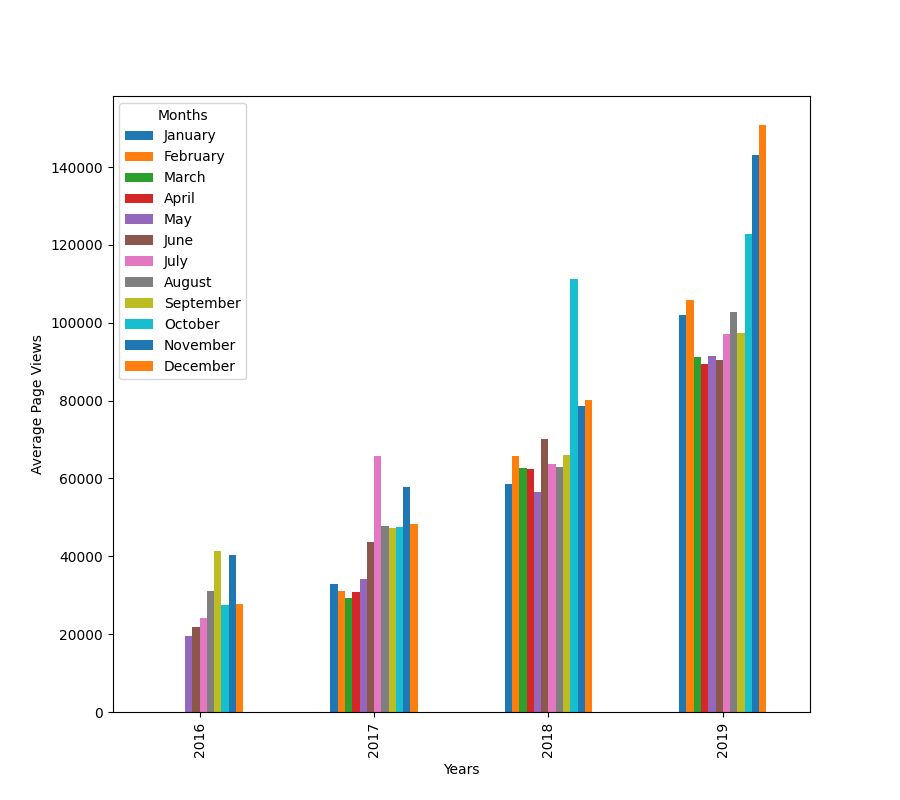
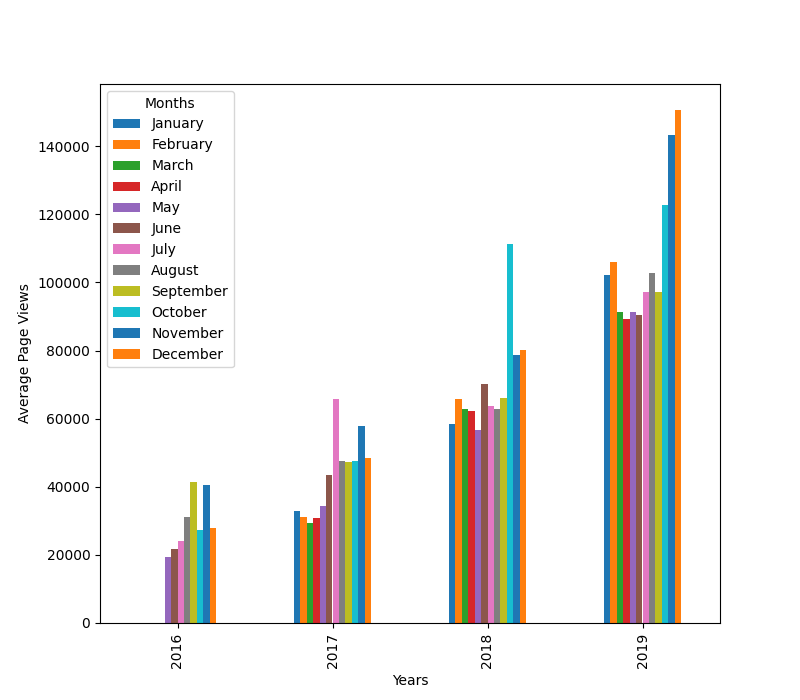
close #4

diff --git a/page-view-time-series-visualizer/main.py b/page-view-time-series-visualizer/main.py
@@ -18,7 +18,7 @@ df = df.drop(df[
 
 def draw_line_plot():
     # Draw line plot
-    fig, ax = plt.subplots(figsize=(20, 5))
+    fig, ax = plt.subplots(figsize=(12, 3))
 
     ax.set_title('Daily freeCodeCamp Forum Page Views 5/2016-12/2019')
     ax.set_xlabel('Date')
@@ -40,7 +40,7 @@ def draw_bar_plot():
     df_bar = df_bar.pivot('year', 'month', 'value')
 
     # Draw bar plot
-    fig, ax = plt.subplots(figsize=(9, 8))
+    fig, ax = plt.subplots(figsize=(8, 7))
     df_bar.plot.bar(ax=ax)
     ax.set_xlabel('Years')
     ax.set_ylabel('Average Page Views')
@@ -61,7 +61,7 @@ def draw_box_plot():
     df_box['month'] = [d.strftime('%b') for d in df_box.date]
 
     # Draw box plots (using Seaborn)
-    fig, axs = plt.subplots(1, 2, figsize=(30, 10))
+    fig, axs = plt.subplots(1, 2, figsize=(22, 6))
     ax1, ax2 = axs
 
     sns.boxplot(data=df_box, x='year', y='value', ax=ax1)

diff --git a/page-view-time-series-visualizer/README.md b/page-view-time-series-visualizer/README.md
@@ -8,20 +8,303 @@ _Please note:_ to test the code locally I copied the data in `fcc-forum-pageview
 
 - [Assignment](https://www.freecodecamp.org/learn/data-analysis-with-python/data-analysis-with-python-projects/page-view-time-series-visualizer)
 
-- [REPL](https://replit.com/@borntofrappe/boilerplate-page-view-time-series-visualizer)
+- [Solution](https://replit.com/@borntofrappe/boilerplate-page-view-time-series-visualizer)
 
-## Assignment
+## Solution
 
-Use the data to complete the following tasks:
+Begin by reading and the data from the `.csv` file:
 
-- Use Pandas to import the data from "fcc-forum-pageviews.csv". Set the index to the "date" column.
+- import the data from "fcc-forum-pageviews.csv"
 
-- Clean the data by filtering out days when the page views were in the top 2.5% of the dataset or bottom 2.5% of the dataset.
+- set the index to the "date" column.
 
-- Create a `draw_line_plot` function that uses Matplotlib to draw a line chart similar to "examples/Figure_1.png". The title should be "Daily freeCodeCamp Forum Page Views 5/2016-12/2019". The label on the x axis should be "Date" and the label on the y axis should be "Page Views".
+- parse dates
 
-- Create a `draw_bar_plot` function that draws a bar chart similar to "examples/Figure_2.png". It should show average daily page views for each month grouped by year. The legend should show month labels and have a title of "Months". On the chart, the label on the x axis should be "Years" and the label on the y axis should be "Average Page Views".
+To achieve the three features store the data in a dataframe with `pd.read_csv`. Specify the index column and the parsing of the dates with the appropriate keyword arguments.
 
-- Create a `draw_box_plot` function that uses Searborn to draw two adjacent box plots similar to "examples/Figure_3.png". These box plots should show how the values are distributed within a given year or month and how it compares over time. The title of the first chart should be "Year-wise Box Plot (Trend)" and the title of the second chart should be "Month-wise Box Plot (Seasonality)". Make sure the month labels on bottom start at "Jan" and the x and x axis are labeled correctly.
+```py
+df = pd.read_csv('fcc-forum-pageviews.csv', index_col='date', parse_dates=['date'])
+```
 
-For each chart, make sure to use a copy of the data frame.
+It would be possible to parse the dates considering the entire dataframe, and not just the date column, with a boolean.
+
+```py
+df = pd.read_csv('fcc-forum-pageviews.csv', index_col='date', parse_dates=True)
+```
+
+Regardless, attest the presence of the date type considering the index column.
+
+```py
+df.index
+'''
+DatetimeIndex(['2016-05-09', '2016-05-10', ...], dtype='datetime64[ns]', ...)
+'''
+```
+
+Following the specification for the project clean the data by filtering out days when the page views were in the top 2.5% or bottom 2.5%.
+
+The relevant function is here `quantile()`. Start by finding the rows exceeding the two thresholds.
+
+```py
+df[
+    (df['value'] > df['value'].quantile(0.975)) |
+    (df['value'] < df['value'].quantile(0.025))
+]
+```
+
+Drop the rows by index and from the original dataframe.
+
+```py
+df = df.drop(df[
+  #... quantile checks
+])
+```
+
+One quick way to confirm that the rows are dropped is considering the length of the dataframe, before and after the snippet.
+
+```py
+len(df) # 1304
+
+# drop
+
+len(df) # 1238
+```
+
+With the resulting dataframe create three visualizations.
+
+### Line plot
+
+The assignment asks to populate the `draw_line_plot` function to draw a line chart similar to [the example](https://replit.com/@borntofrappe/boilerplate-page-view-time-series-visualizer#examples/Figure_1.png). Page views are plotted on the y axis, while the x axis describes the entire range of the selected data.
+
+In terms of setup, repeated for other visualizations, matplotlib allows to plot data with a figure and ax.
+
+```py
+fig, ax = plt.subplots()
+
+# plot on the ax
+
+fig.savefig('visualization.png')
+```
+
+For the line plot, given the number of data points, have the figure considerably wider than taller.
+
+```py
+fig, ax = plt.subplots(figsize=(16, 4))
+```
+
+It would be enough to draw the line with `ax.plot(df)`, referencing the dataframe directly.
+
+```py
+ax.plot(df, 'm') # maroon line
+```
+
+Per the assignment, however, it is first necessary to set the title and labels.
+
+```py
+ax.set_title('Daily freeCodeCamp Forum Page Views 5/2016-12/2019')
+ax.set_xlabel('Date')
+ax.set_ylabel('Page Views')
+```
+
+### Bar plot
+
+The assignment asks to populate the `draw_bar_plot` function to draw a bar chart similar to [the example](https://replit.com/@borntofrappe/boilerplate-page-view-time-series-visualizer#examples/Figure_2.png). Page views are averaged by month and grouped by year.
+
+The first step is creating a copy of the dataframe, so that further modifications do not alter the original structure.
+
+```py
+df_bar = df.copy(True)
+```
+
+The chart needs to plot the average page views on a monthly basis, so modify the dataframe with the desired time range. Pandas offers the `.resample` method which creates a `DatetimeIndexResampler` with a given frequency, here months.
+
+```py
+df_bar.resample('M')
+```
+
+Based on the resampler retrieve a dataframe describing the averages chaining the `.mean` function.
+
+```py
+df_bar.resample('M').mean()
+"""
+                    value
+date
+2016-05-31   19432.400000
+2016-06-30   21875.105263
+2016-07-31   24109.678571
+2016-08-31   31049.193548
+2016-09-30   41476.866667
+2016-10-31   27398.322581
+"""
+```
+
+Notice the index which is no longer based on days, but on months.
+
+To draw the bars next to each other the relevant function doesn't come from matplotlib, but from pandas (even though it is likely there is a connection between the two APIs). The function is available as a method on the dataframe: `df.plot.bar`.
+
+Learning from the second example [in the documentation](<(https://pandas.pydata.org/docs/reference/api/pandas.DataFrame.plot.bar.html)>) the function requires a dataframe with a specific structure, one where the index describes the four years and the columns describe the months.
+
+```py
+"""
+month   1       2 ...
+2016    5      12 ...
+2017    7      21 ...
+...
+"""
+```
+
+To achieve the structure pandas offers the `.pivot` function. However, the dataframe needs to include the year and month for each observations.
+
+```py
+df_bar['year'] = df_bar.index.year
+df_bar['month'] = df_bar.index.month
+
+"""
+      value   year    month
+date      5   2016        1
+"""
+```
+
+With this setup use `pivot` to create the data structure with the years in the index and the months in the columns.
+
+```py
+df_bar = df_bar.pivot('year', 'month', 'value')
+```
+
+Finally, through the mentioned `.plot.bar` method, plot the data in adjacent bars.
+
+```py
+df_bar.plot.bar()
+```
+
+To draw the visual in the figure refer to the ax.
+
+```py
+fig, ax = plt.subplots(figsize=(7, 6))
+df_bar.plot.bar(ax=ax)
+```
+
+This completes the bar plot. Per the assignment, however, it is necessary to customize the axis labels.
+
+```py
+ax.set_xlabel('Years')
+ax.set_ylabel('Average Page Views')
+```
+
+For the legend `.legend()` creates the desired section in the top left corner, but displays integer values.
+
+```py
+ax.legend(title='Months')
+```
+
+One way to work around this is to specify the name of the months directly through the `labels` keyword argument.
+
+```py
+ax.legend(title='Months', labels=labels)
+```
+
+To create the labels the pandas library allows to rapidly create twelve dates in an arbitrary year and retrieve the month for each date.
+
+```py
+labels = pd.date_range(start='2020/01/01', periods=12, freq='M').month_name()
+```
+
+### Box plot
+
+The assignment asks to populate the `draw_box_plot` function to draw two plots similar to [the example](https://replit.com/@borntofrappe/boilerplate-page-view-time-series-visualizer#examples/Figure_3.png). Each box plot focuses on a different time range, years and months, to show the distribution and outliers of the page views variable.
+
+The function already includes instructions to prepare the data.
+
+```py
+df_box = df.copy()
+df_box.reset_index(inplace=True)
+df_box['year'] = [d.year for d in df_box.date]
+df_box['month'] = [d.strftime('%b') for d in df_box.date]
+```
+
+A few things worth noting, which might also lead to modifications in the preceding functions:
+
+- `df.copy()` doesn't include the boolean to create a deep copy
+
+  Checking [the documentation](https://pandas.pydata.org/docs/reference/api/pandas.DataFrame.copy.html) it actually seems pandas sets the boolean to `True` by default.
+
+- `df_box.reset_index(inplace=True)` modifies the dataframe to have the `date` and `value` in their respective column
+
+  ```py
+  df_box = df.copy()
+  '''
+              value
+  date
+  2016-05-19   19736
+  2016-05-26   18060
+  '''
+
+  df_box.reset_index(inplace=True)
+  df
+  '''
+            date   value
+  0    2016-05-19   19736
+  1    2016-05-26   18060
+  '''
+  ```
+
+- the remaining two lines populate two columns with the year and month value
+
+  The operation is achieved with list expressions creating a list of years and month names. Considering the year as an example the following:
+
+  ```py
+  years = [d.year for d in df_box.date]
+  ```
+
+  Is equivalent to the following sequence:
+
+  ```py
+  years = []
+  for d in df_box['date']:
+    years.append(d.year)
+  ```
+
+  A similar logic creates a list of months, but using the name of the month through the `strftime` function.
+
+For the box plot, as required by the project, create two ax objects. With `plt.subplot()` indicate the visualization should have one row and two columns.
+
+```py
+fig, axs = plt.subplots(1, 2, figsize=(30, 10))
+```
+
+Extract the individual ax objects from the returned sequence of tuples.
+
+```py
+ax1, ax2 = axs
+```
+
+For the box plot the seaborn library provides the `.boxplot()` function. The relevant keyword arguments for the projects are:
+
+- `data`, pointing toward the data frame
+
+- `x`, the horizontal position of the boxes
+
+- `y`, the variable to examine in distribution, in mean, interquartile range and outliers
+
+- `ax`, the ax on which to plot the data
+
+The difference between the two plots is the `x` argument, directing toward the year and the month respectively.
+
+```py
+sns.boxplot(data=df_box, x='year', y='value', ax=ax1)
+sns.boxplot(data=df_box, x='month', y='value', ax=ax2)
+```
+
+The box plots are drawn. However, the months are drawn starting with the month of May. This is because the first year, 2016, begins indeed from the month of May. To maintain the calendar order the `order` keyword argument allows to specify the desired labels.
+
+```py
+order = pd.date_range(start='2020/01/01', periods=12, freq='M').strftime('%b')
+```
+
+The process mirrors that of the labels for the bar plot, but creates a series for the short version of the names. The bar plot could be updated to match.
+
+```py
+labels = pd.date_range(start='2020/01/01', periods=12, freq='M').strftime('%B')
+```
+
+With the box plots drawn, the last step relates to the title and axis labels. Include the strings specified by the assignment in the respective ax.

diff --git a/README.md b/README.md
@@ -48,4 +48,10 @@ Top occupations in India: Prof-specialty
 
 ## [Page View Time Series Visualizer](https://www.freecodecamp.org/learn/data-analysis-with-python/data-analysis-with-python-projects/page-view-time-series-visualizer)
 
+![Line plot](https://github.com/borntofrappe/data-analysis-with-python/blob/master/page-view-time-series-visualizer/line_plot.png)
+
+![Bar plot](https://github.com/borntofrappe/data-analysis-with-python/blob/master/page-view-time-series-visualizer/bar_plot.png)
+
+![Box plot](https://github.com/borntofrappe/data-analysis-with-python/blob/master/page-view-time-series-visualizer/box_plot.png)
+
 ## [Sea Level Predictor](https://www.freecodecamp.org/learn/data-analysis-with-python/data-analysis-with-python-projects/sea-level-predictor)
